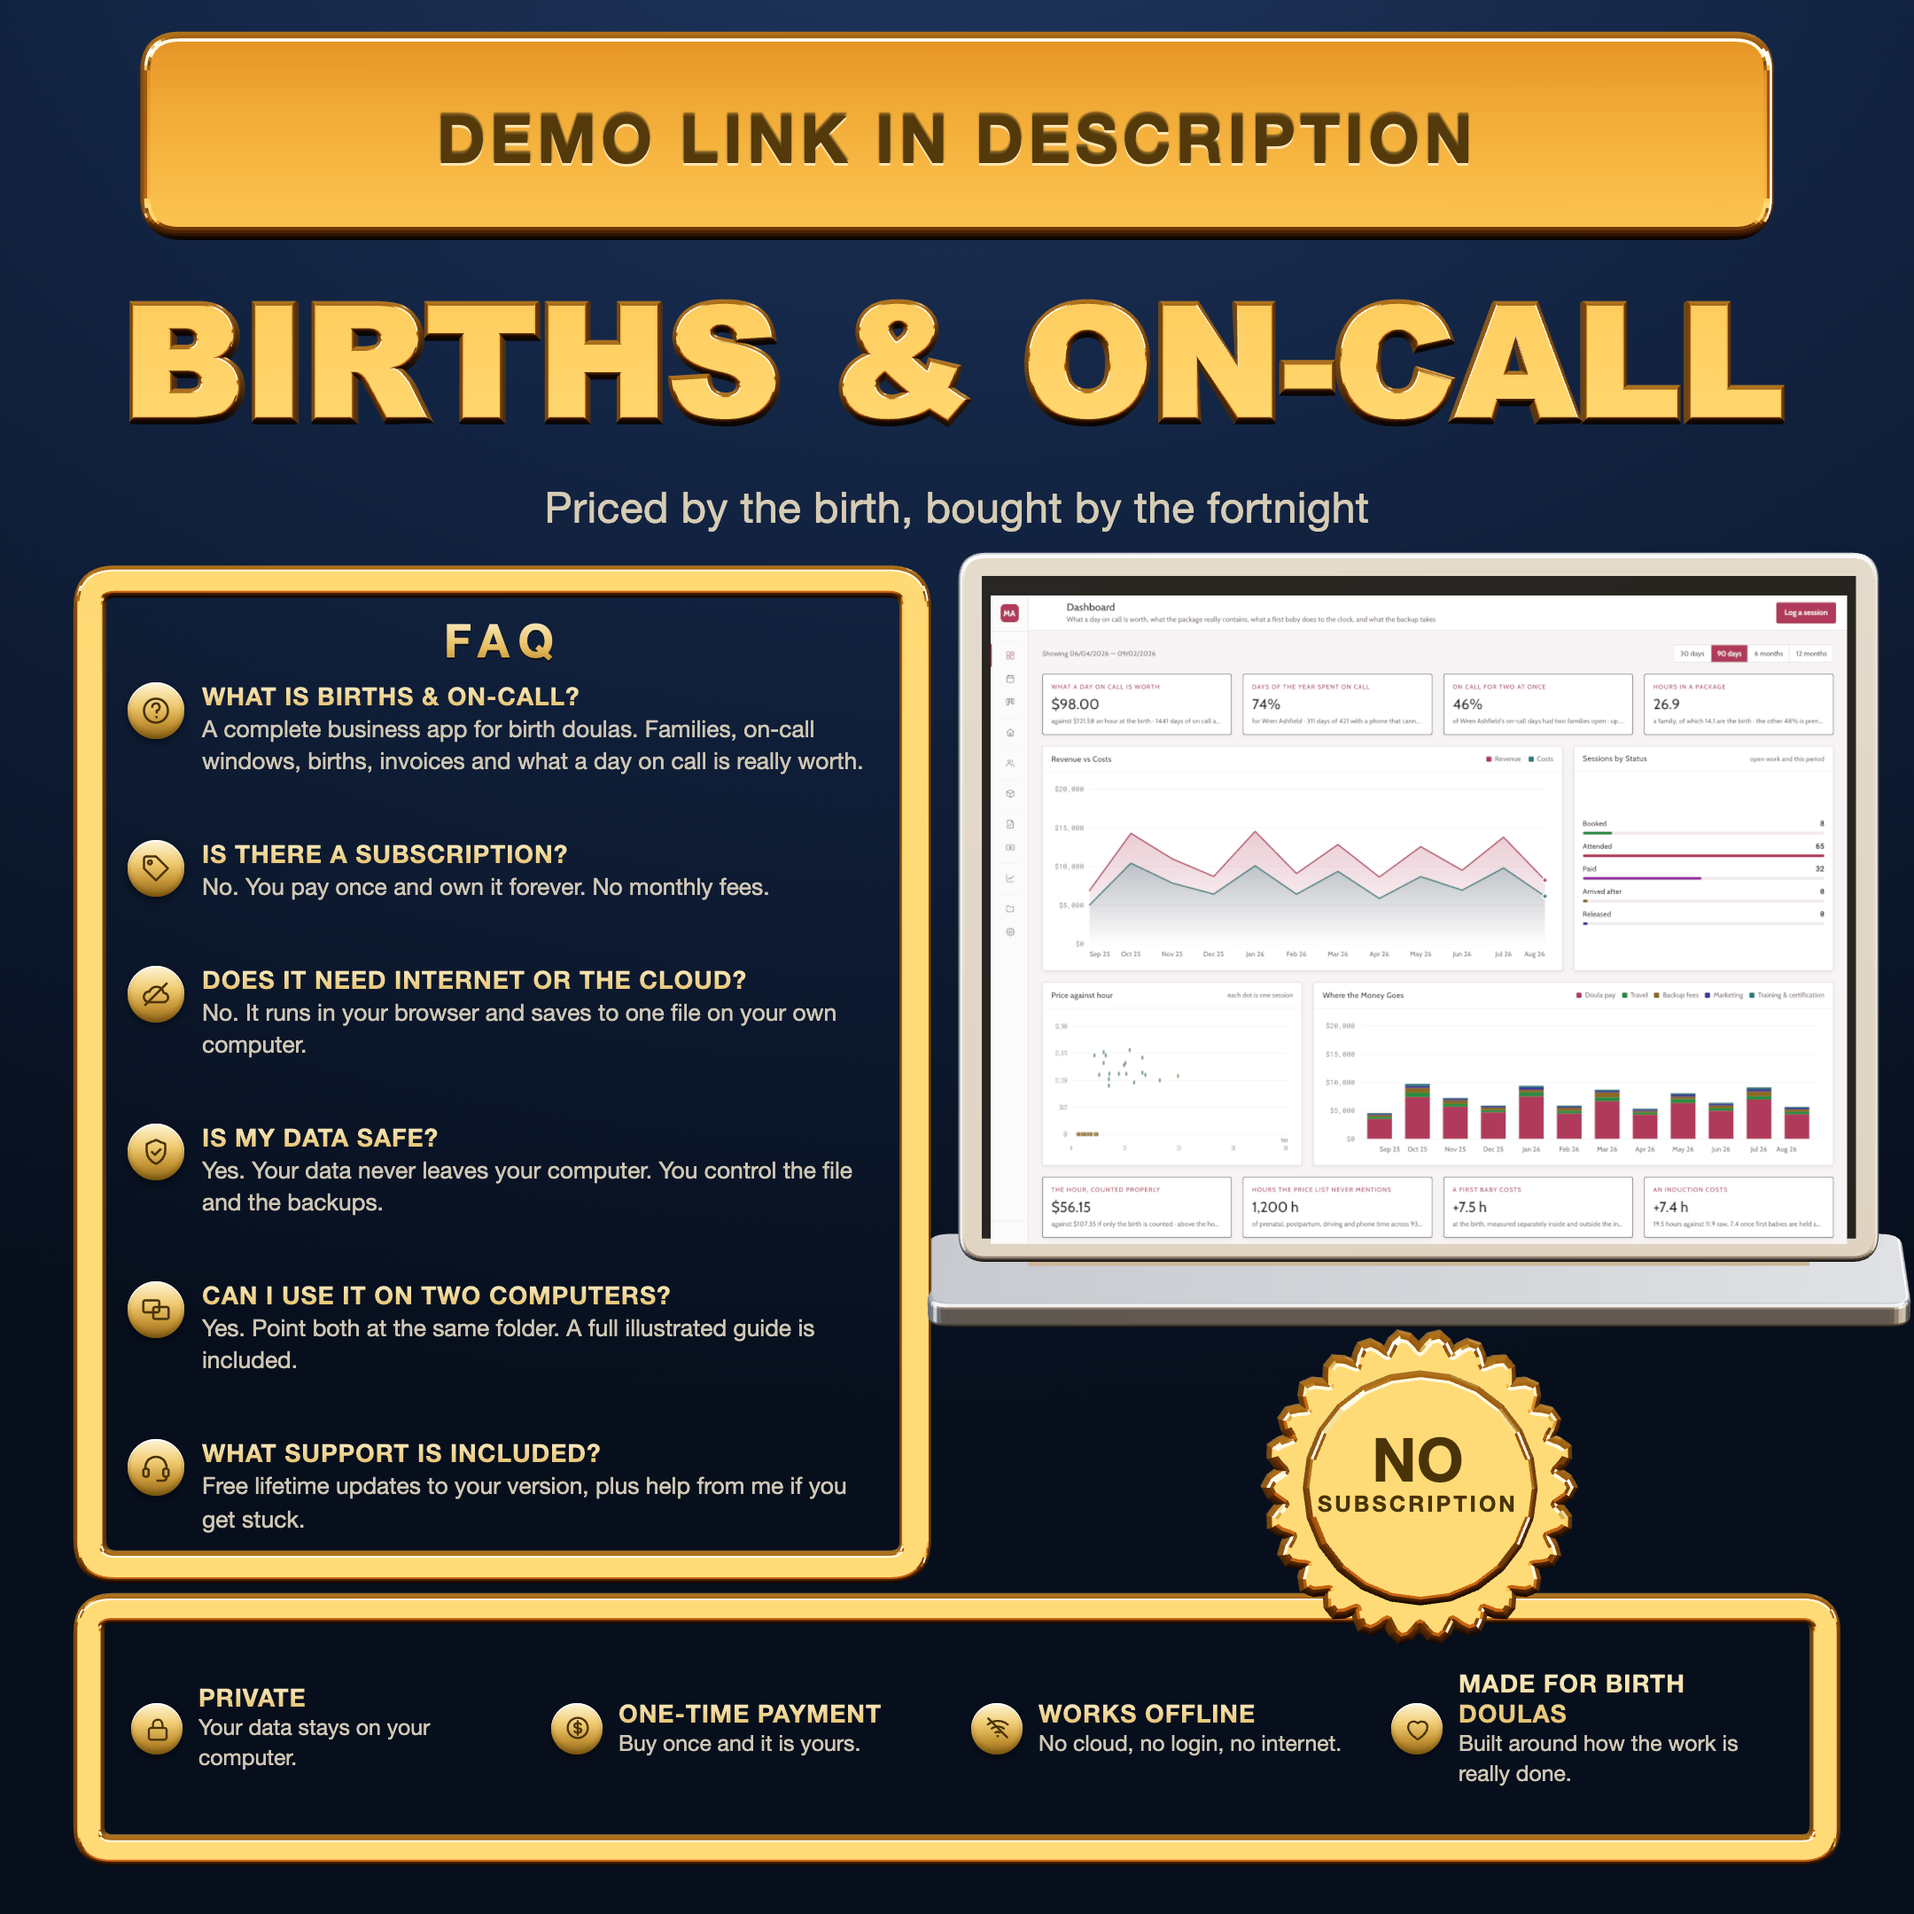
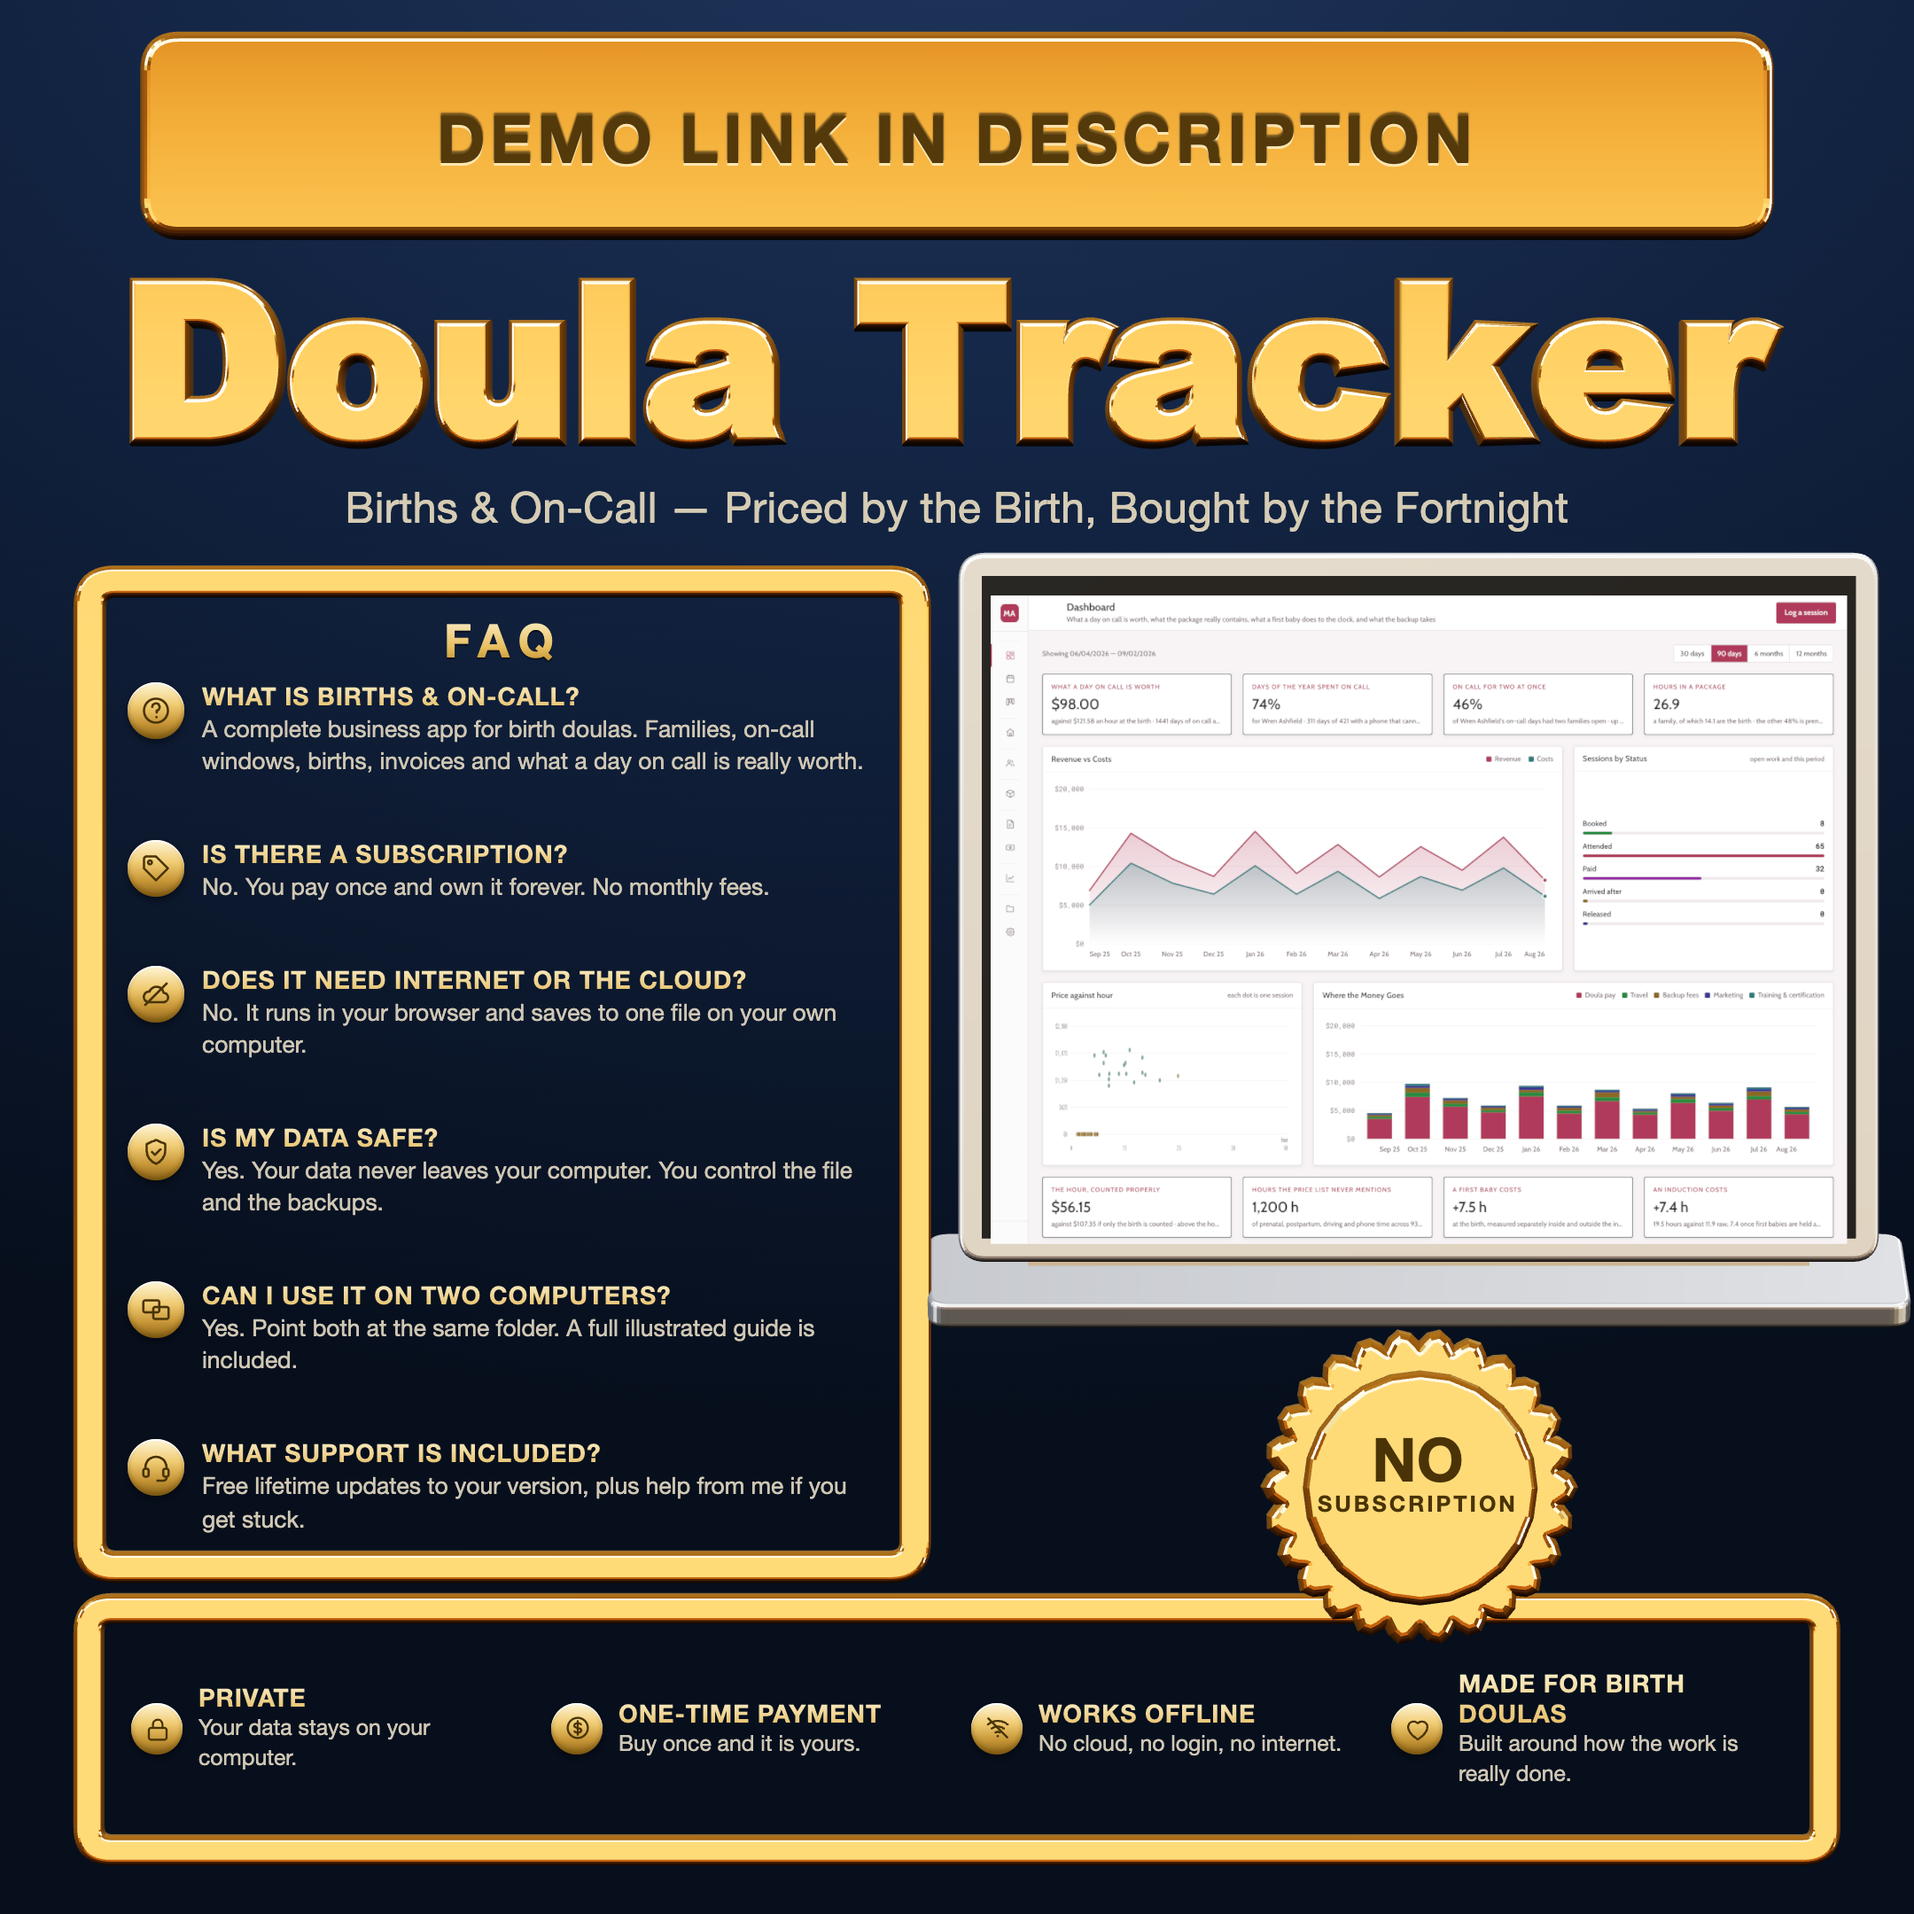
preview: all 10 posters with searchable headlines

Changed region(s): [[0.062, 0.1241, 0.9306, 0.2792]]

diff --git a/preview/index.html b/preview/index.html
@@ -17,6 +17,17 @@
 <h1>Listing image preview — Births &amp; On-Call</h1>
 <p class="s">Tıkla, tam boyutta açılır.</p>
 <div class="g">
+<figure><a href="doulabiz-poster.png"><img src="doulabiz-poster.png" alt="doulabiz"></a><figcaption><b>Doula Tracker</b>Births & On-Call</figcaption></figure>
+<figure><a href="vehiclemaint-poster.png"><img src="vehiclemaint-poster.png" alt="vehiclemaint"></a><figcaption><b>Car Maintenance Tracker</b>Miles & Service</figcaption></figure>
+<figure><a href="mobilegroom-poster.png"><img src="mobilegroom-poster.png" alt="mobilegroom"></a><figcaption><b>Dog Grooming Tracker</b>Vans & Slots</figcaption></figure>
+<figure><a href="petsitting-poster.png"><img src="petsitting-poster.png" alt="petsitting"></a><figcaption><b>Pet Sitting Tracker</b>Visits & Route</figcaption></figure>
+<figure><a href="cleaningresi-poster.png"><img src="cleaningresi-poster.png" alt="cleaningresi"></a><figcaption><b>House Cleaning Tracker</b>Homes & Route</figcaption></figure>
+<figure><a href="nailtech-poster.png"><img src="nailtech-poster.png" alt="nailtech"></a><figcaption><b>Nail Tech Tracker</b>Sets & Chair</figcaption></figure>
+<figure><a href="lashtech-poster.png"><img src="lashtech-poster.png" alt="lashtech"></a><figcaption><b>Lash Tech Tracker</b>Fills & Retention</figcaption></figure>
+<figure><a href="cakebusiness-poster.png"><img src="cakebusiness-poster.png" alt="cakebusiness"></a><figcaption><b>Cake Order Tracker</b>Orders & Cost</figcaption></figure>
+<figure><a href="photobooth-poster.png"><img src="photobooth-poster.png" alt="photobooth"></a><figcaption><b>Photo Booth Tracker</b>Events & Hours</figcaption></figure>
+<figure><a href="truckdispatch-poster.png"><img src="truckdispatch-poster.png" alt="truckdispatch"></a><figcaption><b>Truck Dispatch Tracker</b>Loads & RPM</figcaption></figure>
+
  <figure><a href="doulabiz-poster.png"><img src="doulabiz-poster.png" alt="poster"></a>
   <figcaption><b>AFİŞ — tamamen kendi hattımız</b>Altın mobilyanın hepsi tek three.js sahnesinde gerçek 3B (PBR, metalness 1, stüdyo yansıması). Gemini yok. Yazılar gerçek metin, ekran gerçek görüntü. 2160×2160.</figcaption></figure>
  <figure><a href="doulabiz-faq-hybrid.png"><img src="doulabiz-faq-hybrid.png" alt="hybrid"></a>
